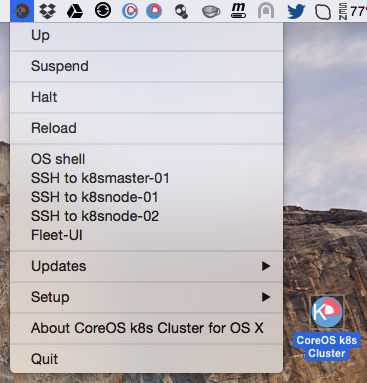
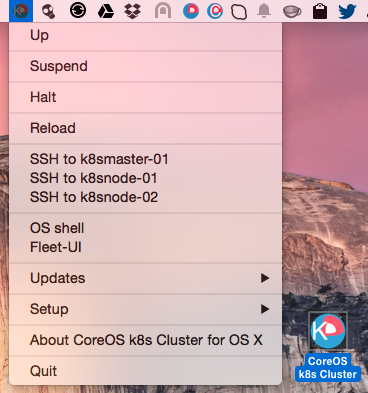
v0.2.5

diff --git a/src/CoreOS k8s Cluster/AppDelegate.m b/src/CoreOS k8s Cluster/AppDelegate.m
@@ -154,6 +154,21 @@
     //     NSLog(@"Apps arguments: '%@'", [_resoucesPathFromApp stringByAppendingPathComponent:@"update.command"]);
 }
 
+
+- (IBAction)updateVbox:(id)sender {
+    // send a notification on to the screen
+    NSUserNotification *notification = [[NSUserNotification alloc] init];
+    notification.title = @"CoreOS vbox";
+    notification.informativeText = @"will be updated";
+    [[NSUserNotificationCenter defaultUserNotificationCenter] deliverNotification:notification];
+    
+    NSString *appName = [[NSString alloc] init];
+    NSString *arguments = [[NSString alloc] init];
+    [self runApp:appName = @"iTerm" arguments:arguments = [_resoucesPathFromApp stringByAppendingPathComponent:@"update_vbox.command"]];
+    //     NSLog(@"Apps arguments: '%@'", [_resoucesPathFromApp stringByAppendingPathComponent:@"update.command"]);
+}
+
+
 - (IBAction)force_coreos_update:(id)sender {
     // send a notification on to the screen
     NSUserNotification *notification = [[NSUserNotification alloc] init];
